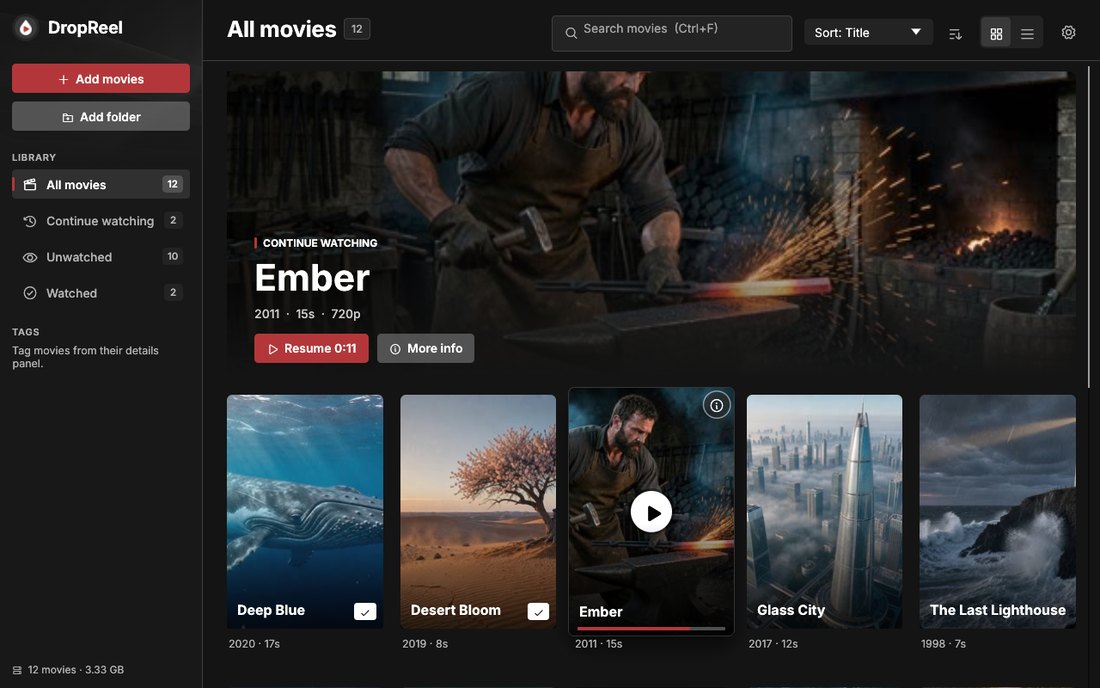
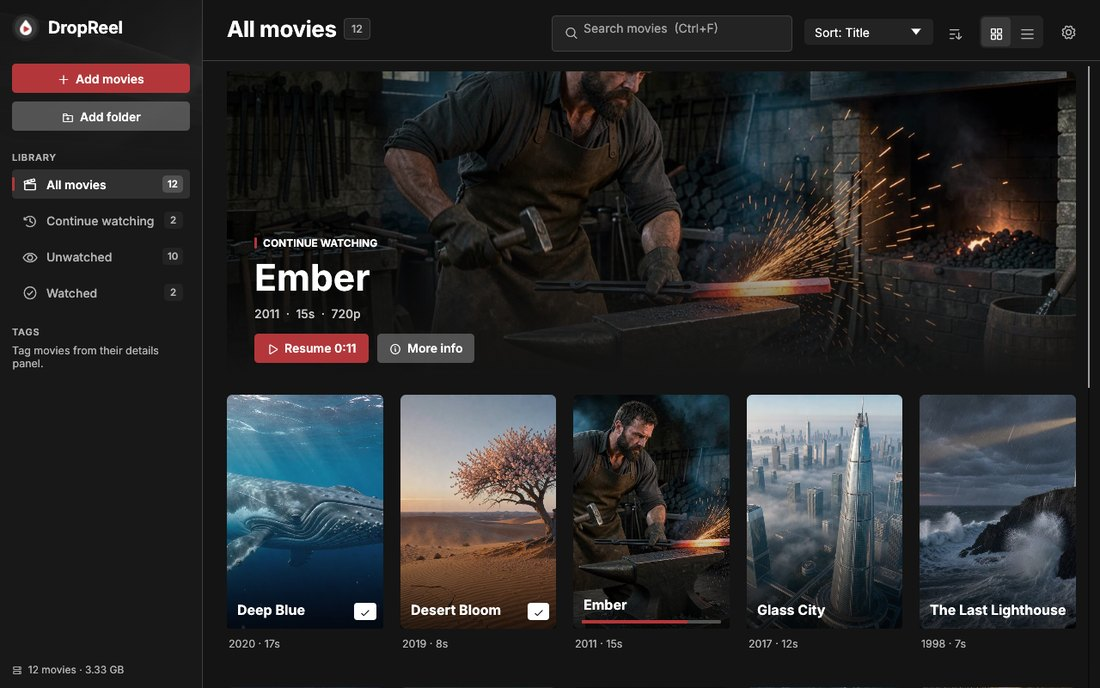
Grab frame posters at up to 1280 pixels
- Frames are now grabbed at 1280 px wide (videos narrower than that
  keep their own width) instead of 480, so the banner and the details
  panel stay sharp.
- At startup a background job re-grabs frame posters from older
  versions that are smaller than both 1280 px and the movie's width,
  re-probing each file for HDR so those frames are still tone-mapped.
  The library refreshes as each one finishes; the old files are
  deleted.
- metadata::is_frame_poster replaces the UI's own check, next to the
  code that names poster files.
- Test: a small old frame is re-grabbed at the movie's width (not
  upscaled), and a second run has nothing to do.

Claude-Session: https://claude.ai/code/session_014CcLC17rZd5My8K96q63uv

diff --git a/src/metadata/mod.rs b/src/metadata/mod.rs
@@ -18,6 +18,13 @@ fn new_poster_path(posters: &Path, id: MovieId, kind: &str) -> PathBuf {
     posters.join(format!("{id}-{kind}-{stamp}.jpg"))
 }
 
+/// Whether a poster is a frame grabbed from the movie (rather than artwork from TMDb).
+pub fn is_frame_poster(poster: &Path) -> bool {
+    poster
+        .file_name()
+        .is_some_and(|name| name.to_string_lossy().contains("-frame-"))
+}
+
 /// Deletes a poster we created ourselves (never anything outside the cache folder).
 pub fn delete_cached_poster(posters: &Path, poster: Option<&Path>) {
     if let Some(p) = poster
@@ -73,6 +80,55 @@ pub fn generate_thumbnail(
     let out = new_poster_path(&env.posters_dir, id, "frame");
     thumbnail::grab_frame(ffmpeg, file, duration, hdr, &out)?;
     replace_poster(env, db, id, &out).map_err(|e| e.to_string())
+}
+
+/// Re-grabs frame posters made smaller than [`thumbnail::FRAME_WIDTH`] (older versions grabbed
+/// 480-pixel frames), when the movie itself is wider. Calls `on_upgrade` after each one and
+/// returns how many were upgraded.
+pub fn upgrade_frame_posters(env: &LibraryEnv, db: &Db, on_upgrade: &dyn Fn()) -> usize {
+    if env.tools.ffmpeg.is_none() {
+        return 0;
+    }
+    let movies = match db.all_movies() {
+        Ok(m) => m,
+        Err(e) => {
+            tracing::warn!("could not list movies to upgrade posters: {e:#}");
+            return 0;
+        }
+    };
+    let mut upgraded = 0;
+    for movie in movies {
+        let Some(poster) = movie.poster.as_deref() else {
+            continue;
+        };
+        if !is_frame_poster(poster) || !poster.starts_with(&env.posters_dir) || !movie.path.exists()
+        {
+            continue;
+        }
+        let Ok((width, _)) = image::image_dimensions(poster) else {
+            continue;
+        };
+        let video_width = movie.width.unwrap_or(0);
+        if width >= thumbnail::FRAME_WIDTH || video_width <= width {
+            continue;
+        }
+        // HDR isn't stored, so ask the file again: an HDR frame needs tone-mapping.
+        let hdr = env
+            .tools
+            .ffprobe
+            .as_deref()
+            .and_then(|ffprobe| probe::probe(ffprobe, &movie.path).ok())
+            .and_then(|media| media.video)
+            .is_some_and(|v| v.is_hdr());
+        match generate_thumbnail(env, db, movie.id, &movie.path, movie.duration, hdr) {
+            Ok(()) => {
+                upgraded += 1;
+                on_upgrade();
+            }
+            Err(e) => tracing::warn!("could not upgrade the poster of \"{}\": {e}", movie.title),
+        }
+    }
+    upgraded
 }
 
 /// Metadata for a newly imported movie: TMDb if a key is set, otherwise (or when TMDb has no

diff --git a/tests/ffmpeg_pipeline.rs b/tests/ffmpeg_pipeline.rs
@@ -6,7 +6,7 @@ use dropreel::encode::args::{self, EncodeSpec};
 use dropreel::encode::{Encoder, EncoderDetector, plan, verify};
 use dropreel::library::Db;
 use dropreel::library::import::{LibraryEnv, run_import};
-use dropreel::metadata::{probe, thumbnail};
+use dropreel::metadata::{self, probe, thumbnail};
 use dropreel::settings::{EncoderChoice, Settings};
 use dropreel::tools::{self, Tools};
 
@@ -168,4 +168,50 @@ fn import_probe_thumbnail_and_reencode() {
     assert_eq!(encoded.video.unwrap().codec, "hevc");
     assert_eq!(encoded.audio.len(), 1, "audio copied");
     assert_eq!(encoded.subtitles.len(), 1, "subtitles copied");
+}
+
+#[test]
+fn small_frame_posters_are_regrabbed_at_the_movies_width() {
+    let Some(tools) = tools_or_skip() else { return };
+    let ffmpeg = tools.ffmpeg.clone().unwrap();
+    let dir = tempfile::tempdir().unwrap();
+    let clip = make_clip(&ffmpeg, dir.path());
+    let posters = dir.path().join("posters");
+    std::fs::create_dir_all(&posters).unwrap();
+    let env = LibraryEnv {
+        db_path: dir.path().join("library.db"),
+        posters_dir: posters.clone(),
+        tools: tools.clone(),
+        tmdb_key: String::new(),
+    };
+    run_import(&env, std::slice::from_ref(&clip), true, &|_| {}, &|| {}).unwrap();
+    let db = Db::open(&env.db_path).unwrap();
+    let movie = db.all_movies().unwrap().remove(0);
+    let grabbed = movie.poster.clone().unwrap();
+    assert!(metadata::is_frame_poster(&grabbed));
+    // A 320-pixel clip is grabbed at its own width, not blown up.
+    assert_eq!(image::image_dimensions(&grabbed).unwrap().0, 320);
+
+    // An older version's smaller frame...
+    let old = posters.join(format!("{}-frame-1.jpg", movie.id));
+    let status = tools::command(&ffmpeg)
+        .args(["-hide_banner", "-loglevel", "error", "-y", "-i"])
+        .arg(&grabbed)
+        .args(["-vf", "scale=160:-2"])
+        .arg(&old)
+        .status()
+        .unwrap();
+    assert!(status.success());
+    db.set_poster(movie.id, Some(&old)).unwrap();
+
+    // ...is grabbed again at the movie's width, and the old file goes away.
+    let refreshed = std::cell::Cell::new(0);
+    let upgraded =
+        metadata::upgrade_frame_posters(&env, &db, &|| refreshed.set(refreshed.get() + 1));
+    assert_eq!((upgraded, refreshed.get()), (1, 1));
+    let poster = db.movie(movie.id).unwrap().unwrap().poster.unwrap();
+    assert_eq!(image::image_dimensions(&poster).unwrap().0, 320);
+    assert!(!old.exists());
+    // Nothing left to do the next time.
+    assert_eq!(metadata::upgrade_frame_posters(&env, &db, &|| {}), 0);
 }

diff --git a/src/app/jobs.rs b/src/app/jobs.rs
@@ -38,6 +38,26 @@ pub fn import(env: LibraryEnv, events: EventSink, paths: Vec<PathBuf>, interacti
     });
 }
 
+/// Re-grabs low-resolution frame posters from older versions, refreshing the library as each
+/// one is done.
+pub fn upgrade_posters(env: LibraryEnv, events: EventSink) {
+    spawn("poster-upgrade", move || {
+        let db = match Db::open(&env.db_path) {
+            Ok(db) => db,
+            Err(e) => {
+                tracing::warn!("could not open the library to upgrade posters: {e:#}");
+                return;
+            }
+        };
+        let n = metadata::upgrade_frame_posters(&env, &db, &|| {
+            events.send(AppEvent::LibraryChanged);
+        });
+        if n > 0 {
+            tracing::info!("upgraded {n} frame posters to a higher resolution");
+        }
+    });
+}
+
 pub fn tmdb_search(
     key: String,
     events: EventSink,

diff --git a/src/metadata/thumbnail.rs b/src/metadata/thumbnail.rs
@@ -8,6 +8,10 @@ use crate::tools;
 /// build with zimg; if that fails we fall back to a plain grab.
 const TONEMAP: &str = "zscale=t=linear:npl=100,format=gbrpf32le,zscale=p=bt709,tonemap=tonemap=hable:desat=0,zscale=t=bt709:m=bt709:r=tv,format=yuv420p,";
 
+/// Frame posters are grabbed this wide (narrower videos keep their own width), enough for the
+/// library's banner and the details panel.
+pub const FRAME_WIDTH: u32 = 1280;
+
 /// Writes a JPEG frame from about 10% into the movie to `out`.
 pub fn grab_frame(
     ffmpeg: &Path,
@@ -46,7 +50,7 @@ pub fn grab_frame(
                 "-frames:v",
                 "1",
                 "-vf",
-                &format!("{filter}scale=480:-2"),
+                &format!("{filter}scale='min({FRAME_WIDTH},iw)':-2"),
                 "-q:v",
                 "3",
                 "-f",

diff --git a/src/app/library_view.rs b/src/app/library_view.rs
@@ -12,6 +12,7 @@ use super::theme::{self, media, palette, radius};
 use super::widgets::{self, ButtonKind};
 use super::{Action, DropReelApp, EncodeBadge};
 use crate::library::{Movie, MovieId};
+use crate::metadata;
 use crate::util::format_bytes;
 
 const MIN_CARD_W: f32 = 158.0;
@@ -815,7 +816,11 @@ fn card(
         RADIUS,
     );
     // A frame from the movie has no title of its own: put one on it, like box art.
-    let title_on_art = poster_shown > 0.0 && widgets::is_frame_poster(movie.poster.as_deref());
+    let title_on_art = poster_shown > 0.0
+        && movie
+            .poster
+            .as_deref()
+            .is_some_and(metadata::is_frame_poster);
     let painter = ui.painter();
 
     if t > 0.01 && encode.is_none() {

diff --git a/src/app/widgets.rs b/src/app/widgets.rs
@@ -59,13 +59,6 @@ pub fn paint_poster(
     shown
 }
 
-/// Whether a poster is a frame grabbed from the movie (rather than real artwork from TMDb).
-pub fn is_frame_poster(poster: Option<&Path>) -> bool {
-    poster
-        .and_then(|p| p.file_name())
-        .is_some_and(|name| name.to_string_lossy().contains("-frame-"))
-}
-
 fn paint_placeholder(ui: &Ui, rect: Rect, title: &str, dim: bool, radius: u8) {
     let (top, bottom) = (theme::ramp::N700, theme::ramp::N850);
     let (top, bottom) = if dim {

diff --git a/src/app/mod.rs b/src/app/mod.rs
@@ -270,6 +270,7 @@ impl DropReelApp {
         }
         app.warn_about_missing_tools();
         app.restart_watcher();
+        jobs::upgrade_posters(app.env(), app.events.clone());
         // Pick up files added to watched folders while DropReel was closed, and find moved files.
         if !app.settings.watched_folders.is_empty() {
             app.start_import(app.settings.watched_folders.clone(), false);
